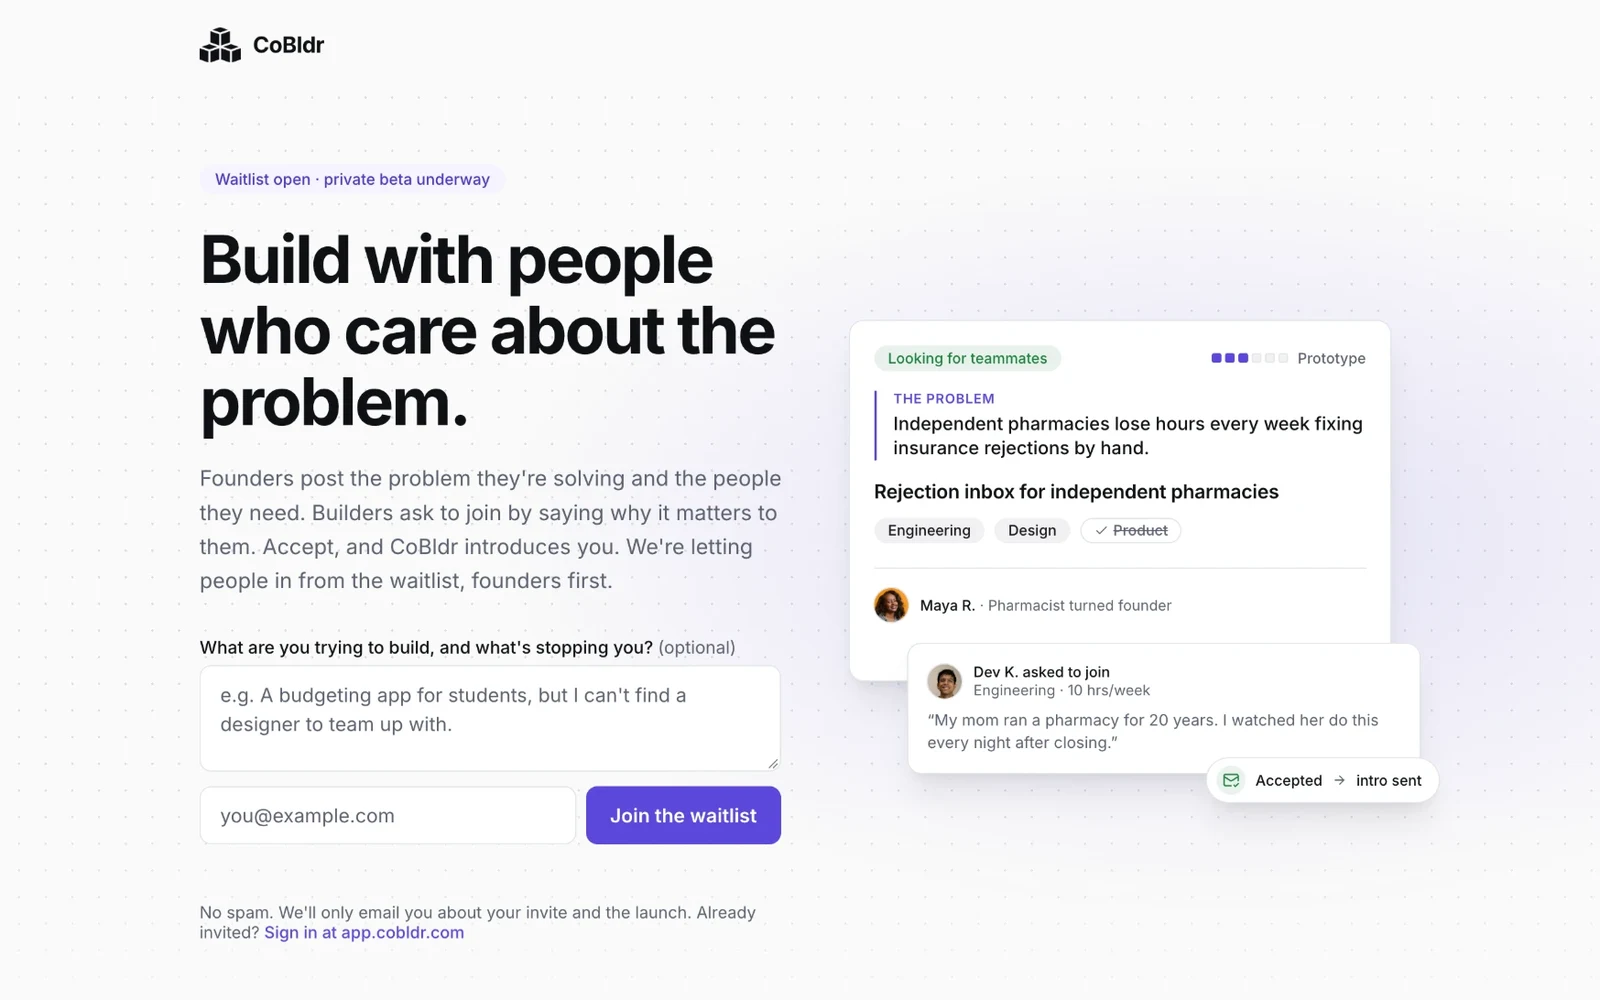
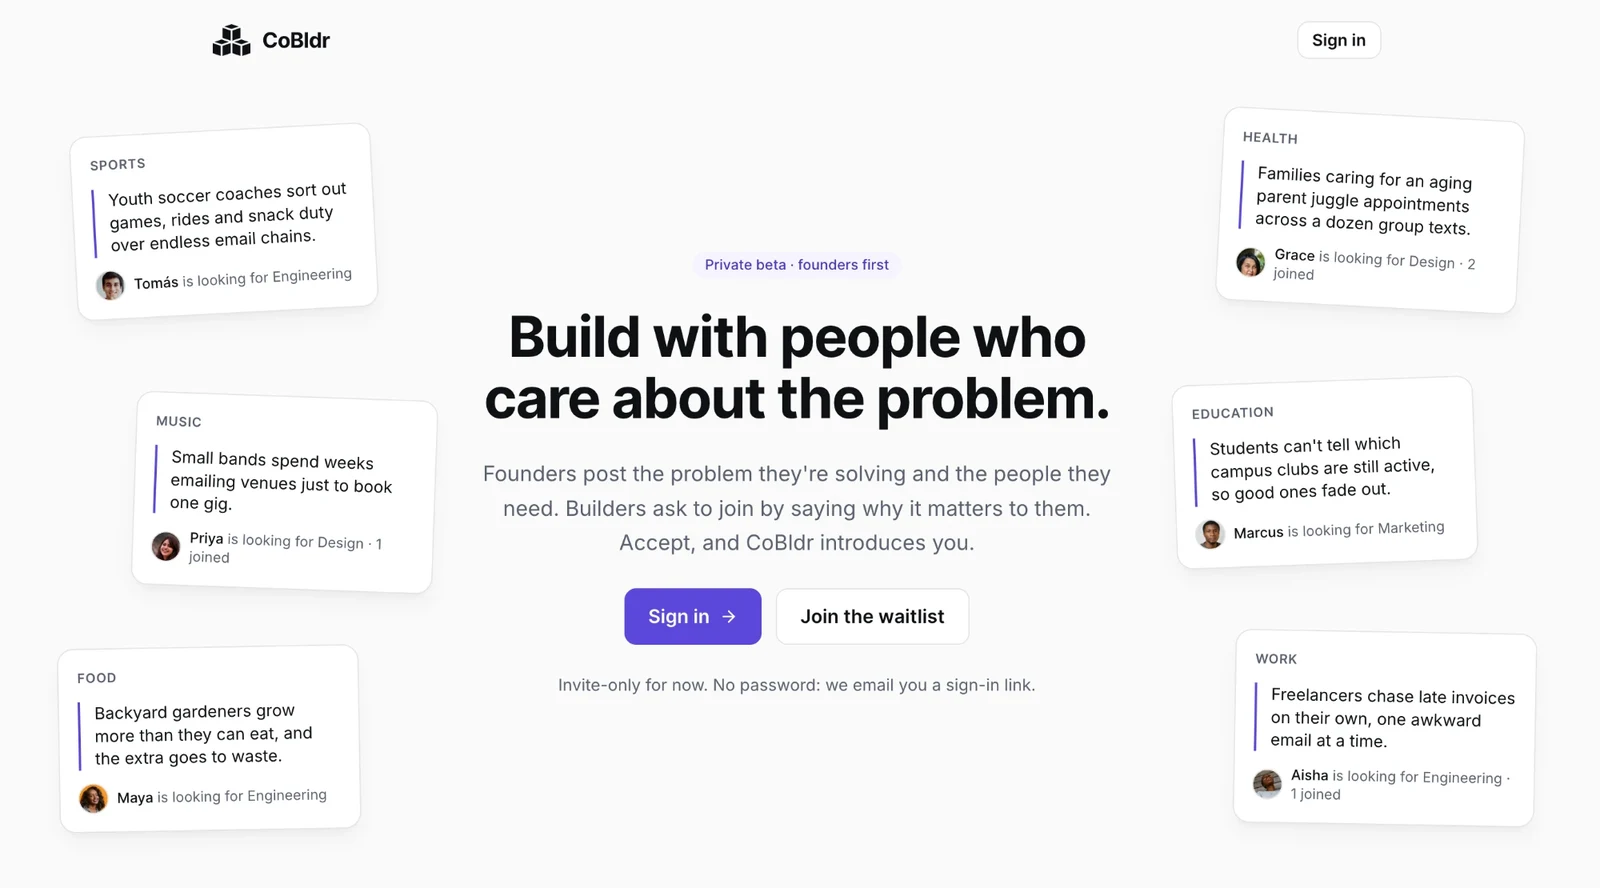
Replace the CoBldr card image with the updated home page screenshot
Shown at its natural aspect ratio (the sample cards run to both edges, so a
16:10 crop would cut them off). Alt text and README updated.

Claude-Session: https://claude.ai/code/session_01Vj3MWN4cFcpVA5HRTDM8uj

diff --git a/projects.html b/projects.html
@@ -199,8 +199,8 @@
             </div>
           </article>
           <article class="sample" data-cat="coding">
-            <a class="sample__shot" href="https://app.cobldr.com/" target="_blank" rel="noopener" aria-label="Open the CoBldr app">
-              <img src="assets/work/cobldr.webp" alt="The CoBldr waitlist page: Build with people who care about the problem, with a sample project card looking for teammates and a Join the waitlist form" loading="lazy" decoding="async" onerror="this.parentNode.classList.add('empty');this.remove()">
+            <a class="sample__shot sample__shot--auto" href="https://app.cobldr.com/" target="_blank" rel="noopener" aria-label="Open the CoBldr app">
+              <img src="assets/work/cobldr.webp" alt="The CoBldr home page: Build with people who care about the problem, surrounded by sample problem cards from sports, music, food, health, education, and work, with Sign in and Join the waitlist buttons" loading="lazy" decoding="async" onerror="this.parentNode.classList.add('empty');this.remove()">
               <span class="sample__fallback" aria-hidden="true">CoBldr</span>
             </a>
             <div class="sample__body">

diff --git a/README.md b/README.md
@@ -41,4 +41,4 @@ The site is served at **https://christophernussbaum.com** (GitHub Pages custom d
 Pages are linked and canonicalized without `.html` (`/portfolio`, `/services`, `/projects`, `/book`, and `/` for home). GitHub Pages serves `portfolio.html` at `/portfolio` automatically; a short script in each page also rewrites an old `.html` address to the clean one on the custom domain. Keep new internal links, canonical tags, `og:url`, and `sitemap.xml` entries extensionless.
 
 ## CoBldr
-The CoBldr card (Projects, Coding filter) and the "Current project" entry on the Portfolio page describe CoBldr (the waitlist site at cobldr.com and the web app); their links go to the app at https://app.cobldr.com/. The card image `assets/work/cobldr.webp` is a screenshot of the CoBldr waitlist page (trimmed evenly at the sides to the card's 16:10 shape); replace it when the app changes.
+The CoBldr card (Projects, Coding filter) and the "Current project" entry on the Portfolio page describe CoBldr (the waitlist site at cobldr.com and the web app); their links go to the app at https://app.cobldr.com/. The card image `assets/work/cobldr.webp` is a screenshot of the CoBldr home page, shown at its natural shape (no crop); replace it when the app changes.
